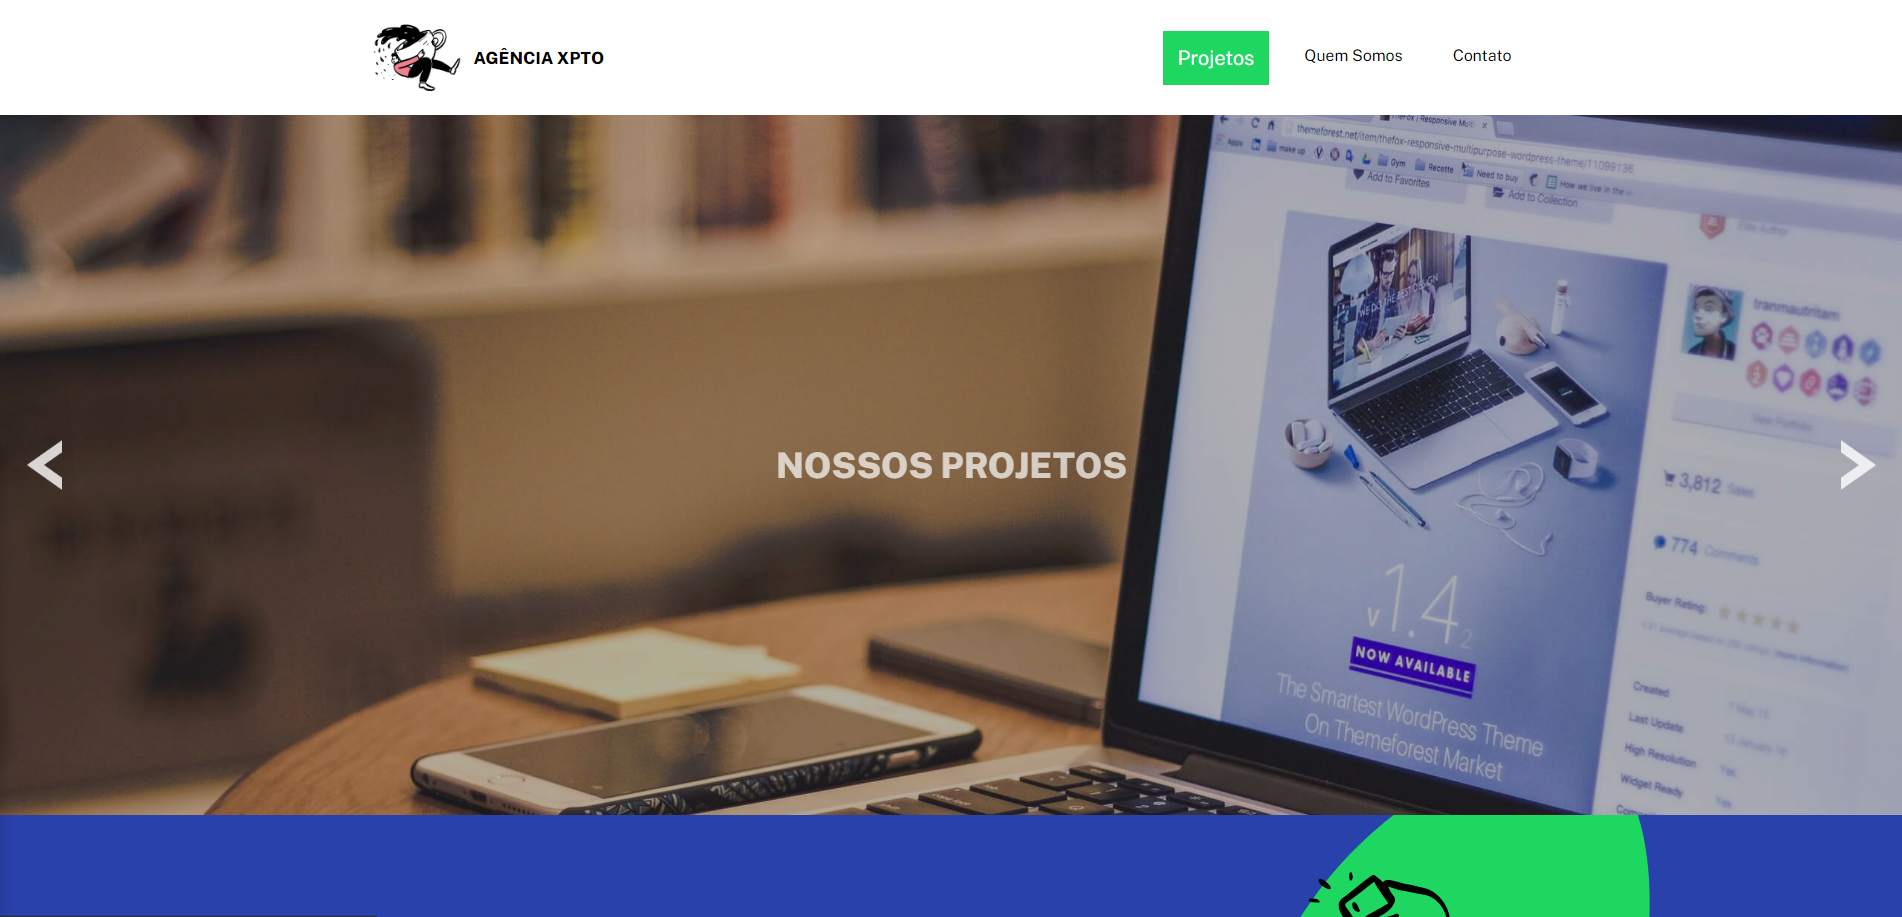
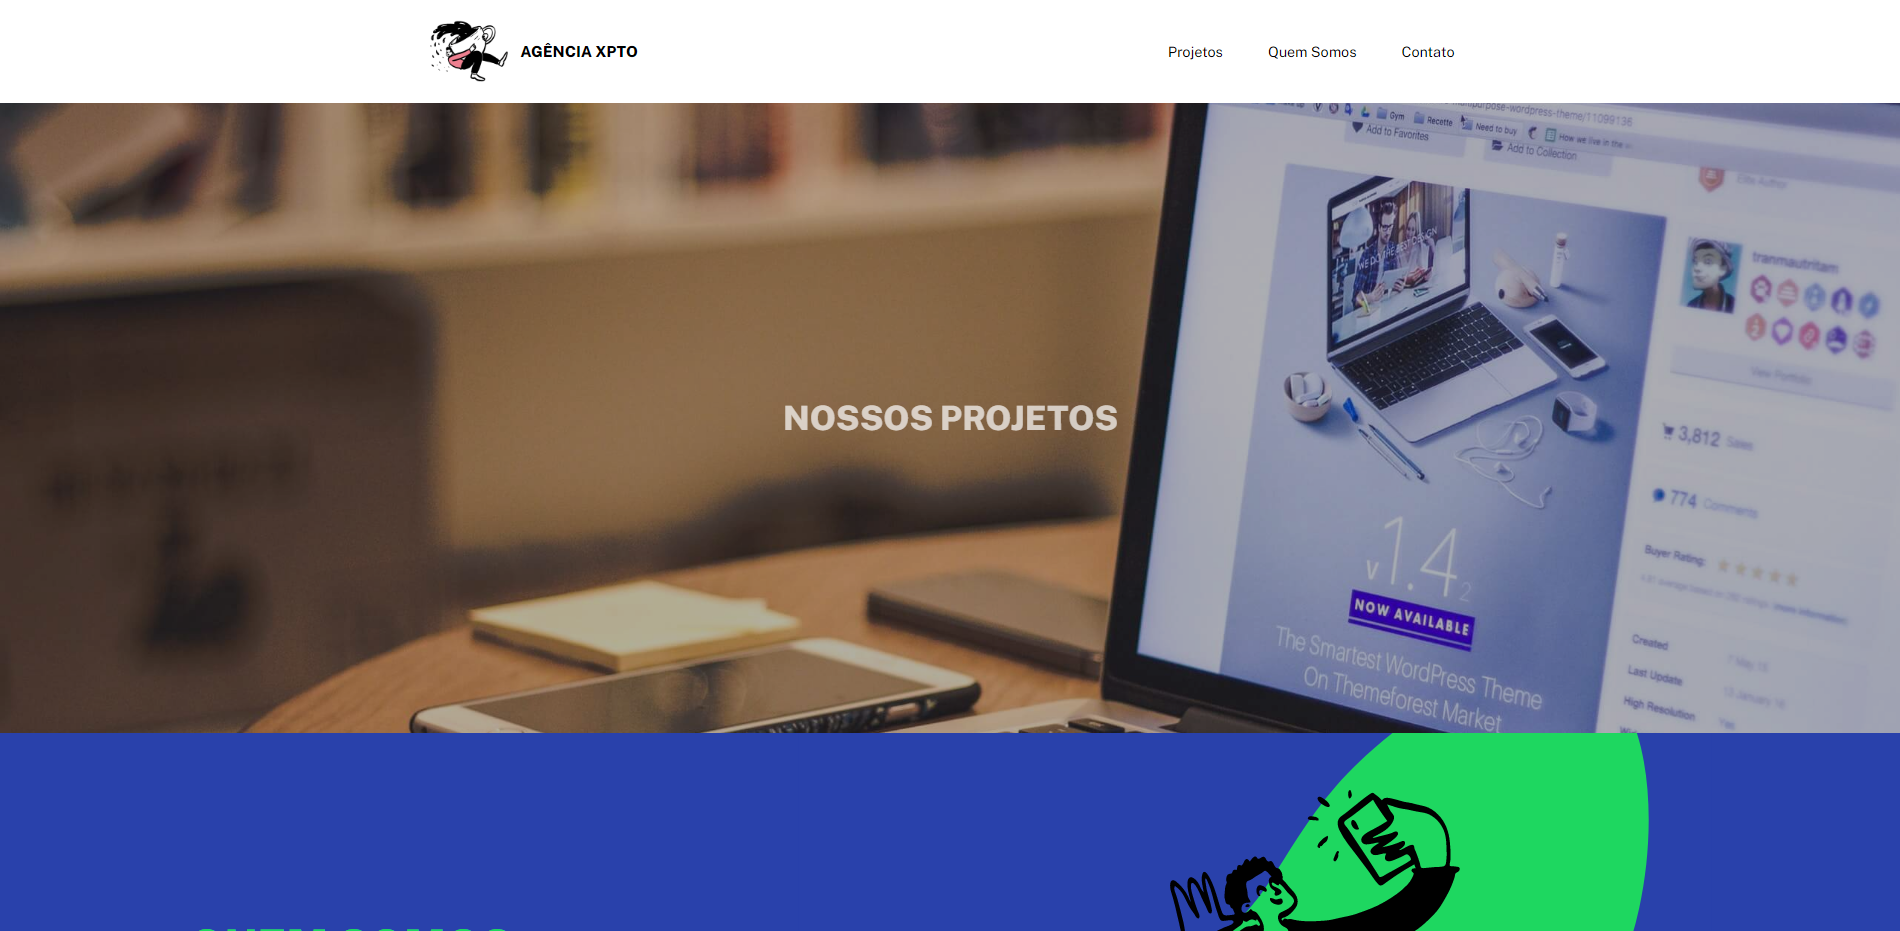
commit

diff --git a/index.html b/index.html
@@ -16,14 +16,15 @@
     <link rel="stylesheet" href="src/css/habilidades.css">
     <link rel="stylesheet" href="src/css/projeto.css">
     <link rel="stylesheet" href="src/css/footer.css">
+    <link rel="stylesheet" href="src/css/slides.css">
 
 
     <!--Global-->
     <link rel="shortcut icon" href="src/image/ico-favicon.png" type="image/x-icon">
     <link rel="stylesheet" href="src/css/globais.css">
     <link rel="stylesheet" href="https://cdn.jsdelivr.net/gh/devicons/devicon@v2.14.0/devicon.min.css">
-    <link rel="stylesheet" href="https://cdnjs.cloudflare.com/ajax/libs/font-awesome/6.0.0/css/brands.min.css"
-        integrity="sha512-bSncow0ApIhONbz+pNI52n0trz5fMWbgteHsonaPk42JbunIeM9ee+zTYAUP1eLPky5wP0XZ7MSLAPxKkwnlzw=="
+    <link rel="stylesheet" href="https://cdnjs.cloudflare.com/ajax/libs/font-awesome/6.1.1/css/all.min.css"
+        integrity="sha512-KfkfwYDsLkIlwQp6LFnl8zNdLGxu9YAA1QvwINks4PhcElQSvqcyVLLD9aMhXd13uQjoXtEKNosOWaZqXgel0g=="
         crossorigin="anonymous" referrerpolicy="no-referrer" />
 </head>
 
@@ -93,15 +94,14 @@
             <div class="row">
                 <div class="informacoes-sobre-mim">
                     <p>
-                        <strong>Entusiasta da área de TI com foco em desenvolver código para a interface gráfica </strong>
+                        <strong>Entusiasta da área de TI com foco em desenvolver aplicações para o front-end </strong>
                     </p>
                     <p>
-                        Estou estudando para me tornar um desenvolvedor Front-end Junior  , o que me faz ficar cada vez mais empolgado com esse universo da programação e de suas possibilidades. <br> 
+                        Estudando para me tornar um desenvolvedor Front-end Junior, o que me deixa cada vez mais empolgado com esse universo da programação e de suas possibilidades. <br> 
                         Aqui apresento meus trabalhos como Desenvolvedor Front-end.
                     </p>
                     <p>
-                        São projetos que mostram minhas habilidades, desenvolvidas com muita dedicação, estudos e horas de trabalho.
-                        Colocando em prática meu aprendizado e vontade de evoluir, sempre!
+                        São projetos que mostram minhas habilidades, desenvolvidas com muita dedicação, estudos e horas de trabalho, colocando em prática meu aprendizado e vontade de evoluir, sempre!
                     </p>
                     <div class="botoes">
                         <a target="_blank" href="src/arquivos/curriculo-pronto.pdf" class="botao">Veja meu
@@ -126,9 +126,7 @@
                 </div>
                 <div>
                     <h3>JavaScript</h3>
-                    <p>Lorem ipsum, dolor sit amet consectetur adipisicing elit. Blanditiis nobis error beatae
-                        similique voluptates obcaecati deleniti voluptate, nostrum facere in! Eos ratione cum unde
-                        odio reiciendis, ex reprehenderit repudiandae! Voluptas.</p>
+                    <p>É uma linguagem leve, interpretada e baseada em objetos com funções de primeira classe, mais conhecida como a linguagem de script para páginas Web. O padrão JavaScript é ECMAScript. Desde 2012, todos os navegadores modernos possuem suporte total ao ECMAScript 5.1.</p>
                 </div>
             </div>
             <div class="habilidade">
@@ -137,9 +135,7 @@
                 </div>
                 <div>
                     <h3>HTML5</h3>
-                    <p>Lorem ipsum, dolor sit amet consectetur adipisicing elit. Blanditiis nobis error beatae
-                        similique voluptates obcaecati deleniti voluptate, nostrum facere in! Eos ratione cum unde
-                        odio reiciendis, ex reprehenderit repudiandae! Voluptas.</p>
+                    <p>HTML (Linguagem de Marcação de HiperTexto) é o bloco de construção mais básico da web. Define o significado e a estrutura do conteúdo da web. Outras tecnologias além do HTML geralmente são usadas para descrever a aparência(CSS) ou a comportamento (JavaScript) de uma página.</p>
                 </div>
             </div>
             <div class="habilidade">
@@ -148,9 +144,7 @@
                 </div>
                 <div>
                     <h3>CSS3</h3>
-                    <p>Lorem ipsum, dolor sit amet consectetur adipisicing elit. Blanditiis nobis error beatae
-                        similique voluptates obcaecati deleniti voluptate, nostrum facere in! Eos ratione cum unde
-                        odio reiciendis, ex reprehenderit repudiandae! Voluptas.</p>
+                    <p>CSS (Cascading Style Sheets ou Folhas de Estilo em Cascata) é uma linguagem de estilo usada para descrever a apresentação de um documento escrito em HTML. O CSS descreve como elementos são mostrados na tela, no papel, na fala ou em outras mídias.</p>
                 </div>
             </div>
             <div class="habilidade">
@@ -159,9 +153,7 @@
                 </div>
                 <div>
                     <h3>GitHub</h3>
-                    <p>Lorem ipsum, dolor sit amet consectetur adipisicing elit. Blanditiis nobis error beatae
-                        similique voluptates obcaecati deleniti voluptate, nostrum facere in! Eos ratione cum unde
-                        odio reiciendis, ex reprehenderit repudiandae! Voluptas.</p>
+                    <p>GitHub é uma plataforma de hospedagem de código-fonte e arquivos com controle de versão usando o Git. É como uma plataforma social colaborativa, onde programadores e empresas colocam seus projetos para o desenvolvimento do código.</p>
                 </div>
             </div>
             <div class="habilidade">
@@ -170,9 +162,7 @@
                 </div>
                 <div>
                     <h3>Git</h3>
-                    <p>Lorem ipsum, dolor sit amet consectetur adipisicing elit. Blanditiis nobis error beatae
-                        similique voluptates obcaecati deleniti voluptate, nostrum facere in! Eos ratione cum unde
-                        odio reiciendis, ex reprehenderit repudiandae! Voluptas.</p>
+                    <p> É um sistema de controle de versões distribuído, usado principalmente no desenvolvimento de software, mas pode ser usado para registrar o histórico de edições de qualquer tipo de arquivo.</p>
                 </div>
             </div>
         </div>
@@ -187,58 +177,39 @@
         </div>
 
         <div class="container-projetos container">
-            <div class="projeto">
-                <a href="#">
-                    <img src="src/image/projeto1.png" alt="nome do projeto">
+            <div class="seta seta-voltar " href="" id="seta-voltar">
+                <i class="fa-solid fa-circle-arrow-left"></i>
+            </div>
+            <div class="seta seta-avancar seta-ativa" href="" id="seta-avancar">
+                <i class="fa-solid fa-circle-arrow-right"></i>
+            </div>
+            <div class="projeto img-ativa">
+                <a href="https://tiagosscarneiro.github.io/brandname/" target="_blank" >
+                     <img src="./src/image/imgbrandname.png" alt="nome do projeto">
                     <h3>Projeto1</h3>
-                    <div class="informacoes-projeto">
-                        <p>Lorem ipsum </p>
-                        <a href="https://tiagosscarneiro.github.io/pagina-web-agenciaXPTO/" target="_blank">
-                            <p>🔗 Ver no Github pages </p>
-                        </a>
-                    </div>
                 </a>
             </div>
-
             <div class="projeto">
-                <a href="#">
-                    <img src="src/image/projeto-2.png" alt="nome do projeto">
+                <a href="https://tiagosscarneiro.github.io/projeto-pizzaria/" target="_blank">
+                    <img src="src/image/imglapizza.png" alt="nome do projeto">
                     <h3>Projeto2</h3>
-                    <div class="informacoes-projeto">
-                        <p>Lorem ipsum </p>
-                        <a href="https://tiagosscarneiro.github.io/projeto-pizzaria/" target="_blank">
-                            <p>🔗 Ver no Github pages </p>
-                        </a>
-                    </div>
                 </a>
             </div>
             <div class="projeto">
-                <a href="#">
-                    <img src="src/image/projeto-3.png" alt="nome do projeto">
+                <a href="https://tiagosscarneiro.github.io/landing-page-xyz/" target="_blank">
+                    <img src="src/image/imgxyz.png" alt="nome do projeto">
                     <h3>Projeto3</h3>
-                    <div class="informacoes-projeto">
-                        <p>Lorem ipsum </p>
-                        <a href="https://tiagosscarneiro.github.io/landing-page-xyz/" target="_blank">
-                            <p>🔗 Ver no Github pages </p>
-                        </a>
-                    </div>
                 </a>
             </div>
             <div class="projeto">
-                <a href="#">
-                    <img src="src/image/projeto-4.png" alt="imagem do projeto">
-                    <h3>Projeto4</h3>
-                    <div class="informacoes-projeto">
-                        <p>Lorem ipsum </p>
-                        <a href="https://tiagosscarneiro.github.io/landing-page-desafio-3/" target="_blank">
-                            <p>🔗 Ver no Github pages </p>
-                        </a>
-                    </div>
+                <a href="https://tiagosscarneiro.github.io/pagina-web-agenciaXPTO/">
+                    <img src="src/image/imgxpto.png" alt="imagem do projeto">
+                    <h3>Projeto4</h3>   
                 </a>
-            </div>
+            </div>    
         </div>
-
     </section>
+
     <footer class="footer">
         <div class="container">
             <h2>Me envie uma mensagem!</h2>

diff --git a/src/css/projeto.css b/src/css/projeto.css
@@ -1,64 +1,17 @@
 .projetos .section-title{
     padding-top: 180px;
 }
-.projetos .container-projetos{
-    display: grid;
-    grid-template-columns: repeat(auto-fill, minmax(340px, 1fr));
-    margin: 0 auto;
-    grid-gap: 20px;
-}
 
-@media(max-width:1280px){
-    .projetos .container-projetos{
-        padding:  0 var(--mobile-padrao);
-        grid-template-columns: repeat(auto-fill, minmax(300px, 1fr));
-        padding: 10px;
-    }
-    .container-projetos {
-        position: relative;
-        z-index: -1;
-    }
-}
-
-.projetos .container-projetos .projeto {
-    border-radius: 5px;
-    transition: all 0.3s ease;
-    -moz-transition: all 0.3s ease;
-    -o-transition: all 0.3s ease;
-    -webkit-transition: all 0.3s ease; 
-    position: relative;
-    box-shadow: 6px -4px 5px  rgba(0, 0, 0, 0.26);  
-}
-
-.projetos .container-projetos .projeto:hover,
-.projetos .container-projetos .projeto:hover .informacoes-projeto{
-    opacity: 0.8;
-}
+.container-projetos {
+   position: relative;
+     
+} 
 
 .projetos .container-projetos .projeto img {
     border-top-left-radius: 5px;
     border-top-right-radius: 5px;
     height: 100%;
     object-fit: cover;
-}
-
-.projetos .container-projetos .projeto .informacoes-projeto{
-    padding: 20px;
-    background-color: var(--cor-fundo-muito-escuro);
-    position: absolute;
-    top: 0;
-    height: 100%;
-    width: 100%;
-    opacity: 0;
-    transition: all 0.3s ease;
-    -moz-transition: all 0.3s ease;
-    -o-transition: all 0.3s ease;
-    -webkit-transition: all 0.3s ease; 
-}
-.projetos .container-projetos .projeto p:nth-child(2){
-    margin-top: 10px;
-    font-weight: 700;
-    font-size: 1.4rem;
 }
 
 .projetos .container-projetos .projeto h3{
@@ -80,6 +33,6 @@
     }
 
     .projetos .container-projetos {
-        margin: 10px;   
+        margin: 10px;
     }
 }

diff --git a/index.js b/index.js
@@ -1,0 +1,53 @@
+const listaImagens = document.querySelectorAll('.projeto')
+const listaSeta = document.querySelectorAll('.seta')
+const setaVoltar = document.getElementById('seta-voltar')
+const setaAvancar = document.getElementById('seta-avancar')
+
+let imgAtual = 0
+
+
+function mostrarSeta() {
+    listaSeta.forEach(seta =>{
+        seta.classList.add('seta-ativa')
+    })
+  
+}
+
+function mostrarImagens () {
+    listaImagens[imgAtual].classList.add('img-ativa')
+
+
+}
+function esconderImagens() {
+    listaImagens.forEach(imagem => {
+        imagem.classList.remove('img-ativa')
+
+    })
+}
+
+setaAvancar.addEventListener('click', function () {
+    //Verificar se chegou na ultima imagem
+    //se sim, tirar seta e dar o return
+
+    console.log(imgAtual)
+    console.log(listaImagens.length-1)
+   
+    imgAtual ++ 
+   
+    esconderImagens()
+    mostrarImagens()
+    //mostrarSeta()
+    if (imgAtual === listaImagens.length-1) {
+        console.log('teste seta')
+      
+    }  
+})
+
+setaVoltar.addEventListener('click', function () {
+    if (imgAtual == 0) return
+    imgAtual --
+    esconderImagens()
+    mostrarImagens()
+   
+})
+

diff --git a/src/css/slides.css b/src/css/slides.css
@@ -1,0 +1,39 @@
+.seta {
+    width: 40px;
+    color: rgb(24, 23, 23);
+    top: calc(50% - 13px) ;
+    padding: 10px;
+    display: flex;
+    text-align: center;
+    align-items: center;
+    justify-content: center;
+    cursor: pointer;
+    transition: all 0.4s;
+    font-size: 1.7rem;
+    margin-top: -5px;
+    position: absolute;
+    z-index: 1;
+    display: none;
+} 
+
+.seta:hover {
+    transform: scale(1.2);
+}
+
+.seta-voltar {
+    left: 10px;
+}
+.seta-ativa{
+    display: block;
+}
+
+.seta-avancar{
+    right: 10px;
+}
+.projeto {
+    display: none;
+}
+
+.img-ativa {
+    display: block;
+} 

diff --git a/src/css/variaveis.css b/src/css/variaveis.css
@@ -3,7 +3,7 @@
     --cor-secundaria:#054255;
     --cor-clara:#fff;
     --cor-fundo-muito-escuro: #1b1b1b;
-    --cor-fundo-escuro:#000003;
+    --cor-fundo-escuro:#313131;
     --cor-fundo-claro:#1a2a50;
 }
 

diff --git a/src/css/header.css b/src/css/header.css
@@ -6,6 +6,7 @@
     padding: 30px 15px;
     background-color:var(--cor-fundo-claro);
     width: 100%;
+    z-index: 1;
 }
 
 .header .logo {

diff --git a/src/css/globais.css b/src/css/globais.css
@@ -82,4 +82,3 @@ body{
     background-color: var(--cor-secundaria);
     color: var(--cor-clara);
 }
-
